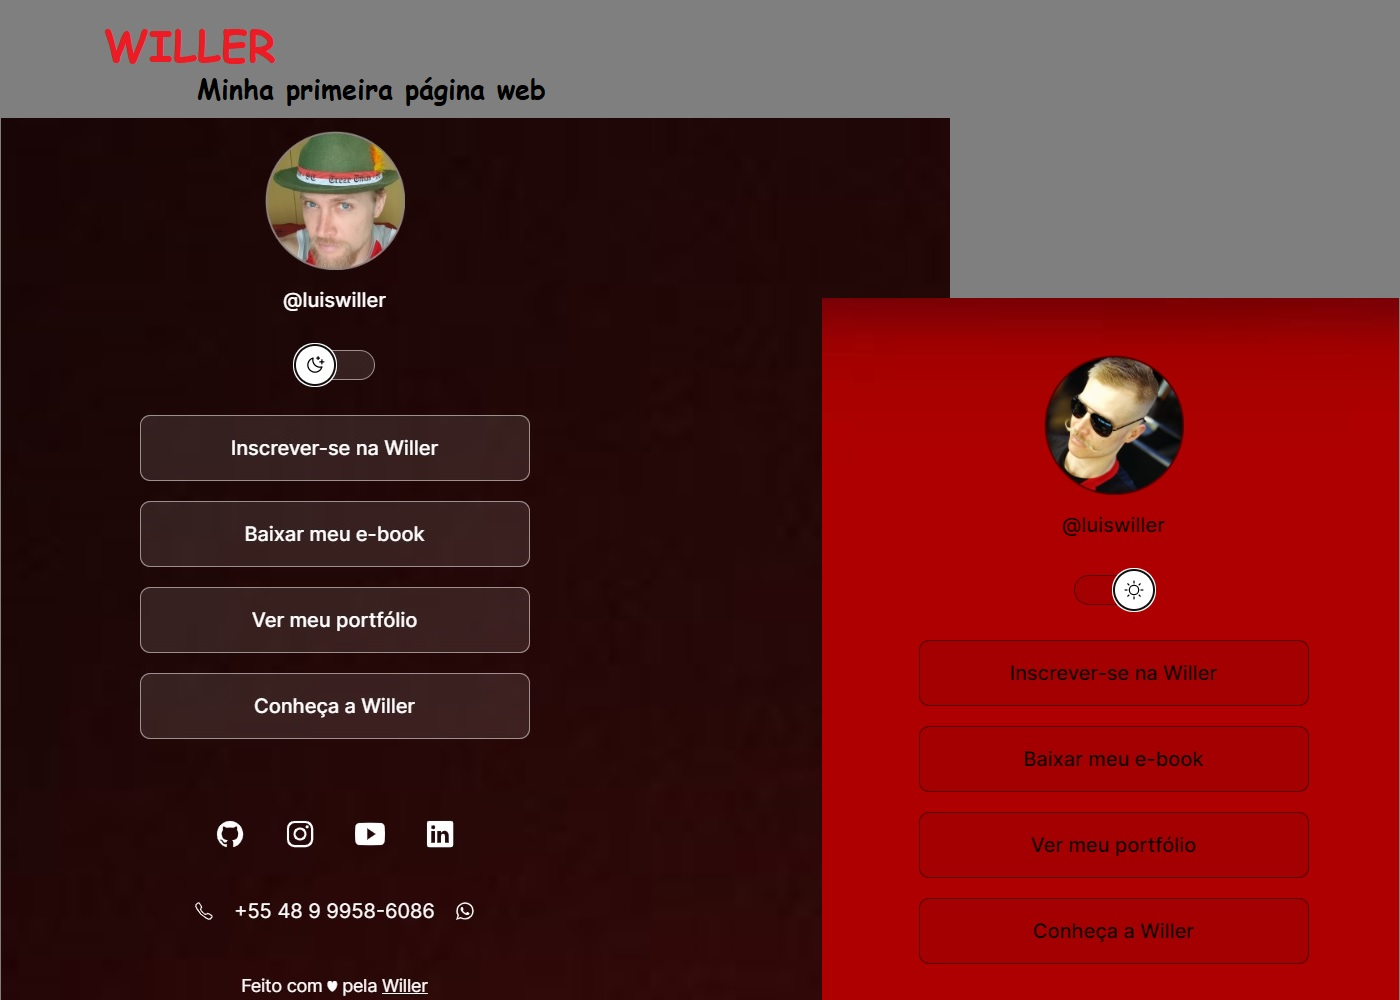
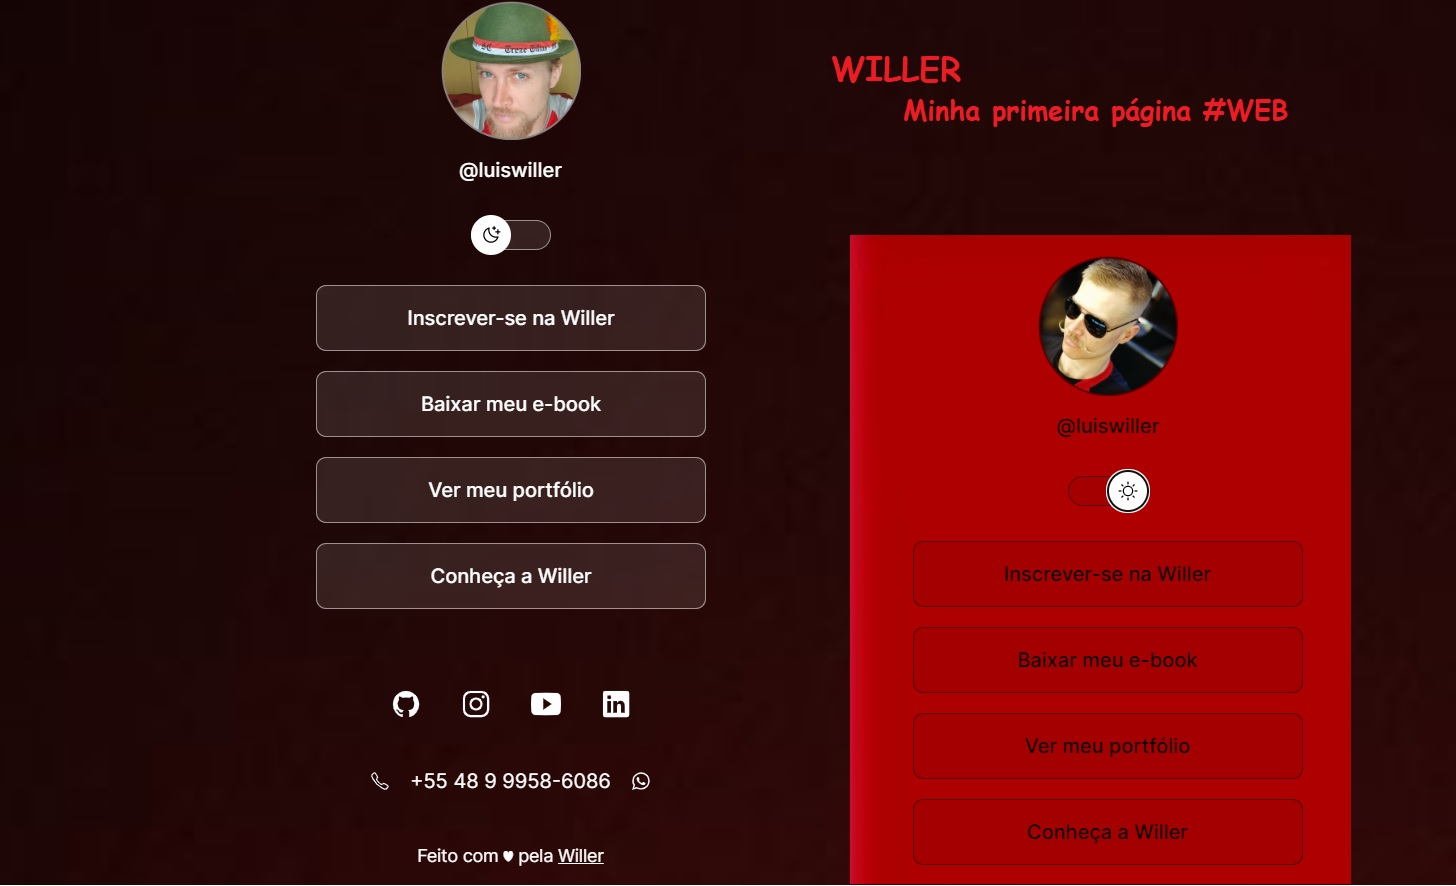
updating main image

diff --git a/style.css b/style.css
@@ -34,7 +34,7 @@ body * {
 }
 
 #container {
-  width: 100%;
+  width: 360px;
   max-width: 588px;  
   margin: 56px auto 0px;
   padding: 0 24px;
